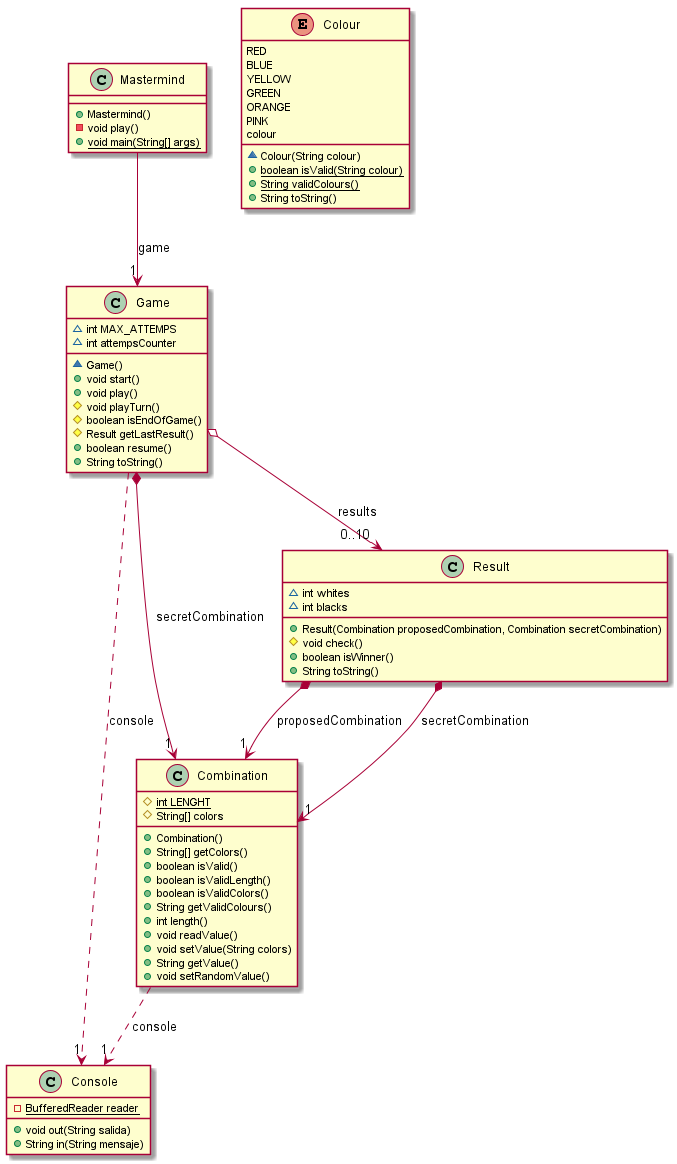
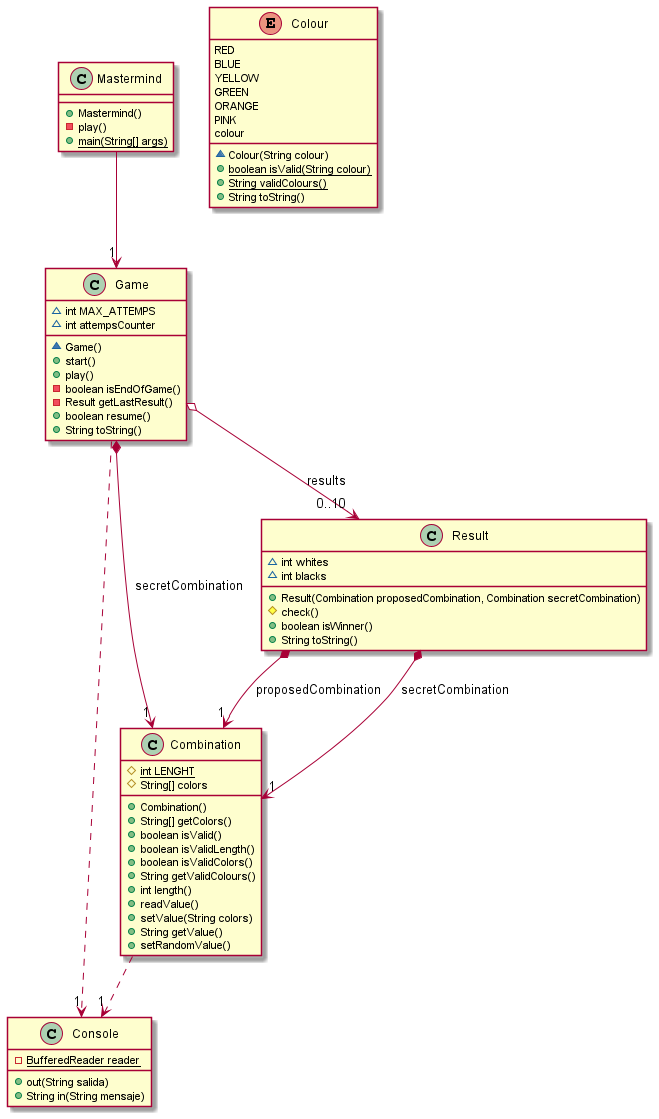
Changes in Game. Protected to private

Changed region(s): [[0.0, 0.1823, 1.0, 1.0], [0.0607, 0.0, 0.6373, 0.2127], [0.1214, 0.6685, 0.1517, 0.8204]]

diff --git a/mastermind-herencia/src/mastermind/Game.java b/mastermind-herencia/src/mastermind/Game.java
@@ -23,24 +23,20 @@ class Game {
 	public void play() {
 		this.start();
 		do {
-			this.playTurn();
+			Combination proposedCombination = new Combination();
+			proposedCombination.readValue();
+			this.results[this.attempsCounter] = new Result(proposedCombination, this.secretCombination);
+			this.attempsCounter++;
 			this.console.out(this.toString());
 
 		} while (!this.isEndOfGame());
 	}
 	
-	protected void playTurn() {
-		Combination proposedCombination = new Combination();
-		proposedCombination.readValue();
-		this.results[this.attempsCounter] = new Result(proposedCombination, this.secretCombination);
-		this.attempsCounter++;
-	}
-	
-	protected boolean isEndOfGame() {
+	private boolean isEndOfGame() {
 		return this.attempsCounter == MAX_ATTEMPS || this.getLastResult().isWinner();
 	}
 	
-	protected Result getLastResult() {
+	private Result getLastResult() {
 		return this.results[this.attempsCounter - 1];
 	}
 
